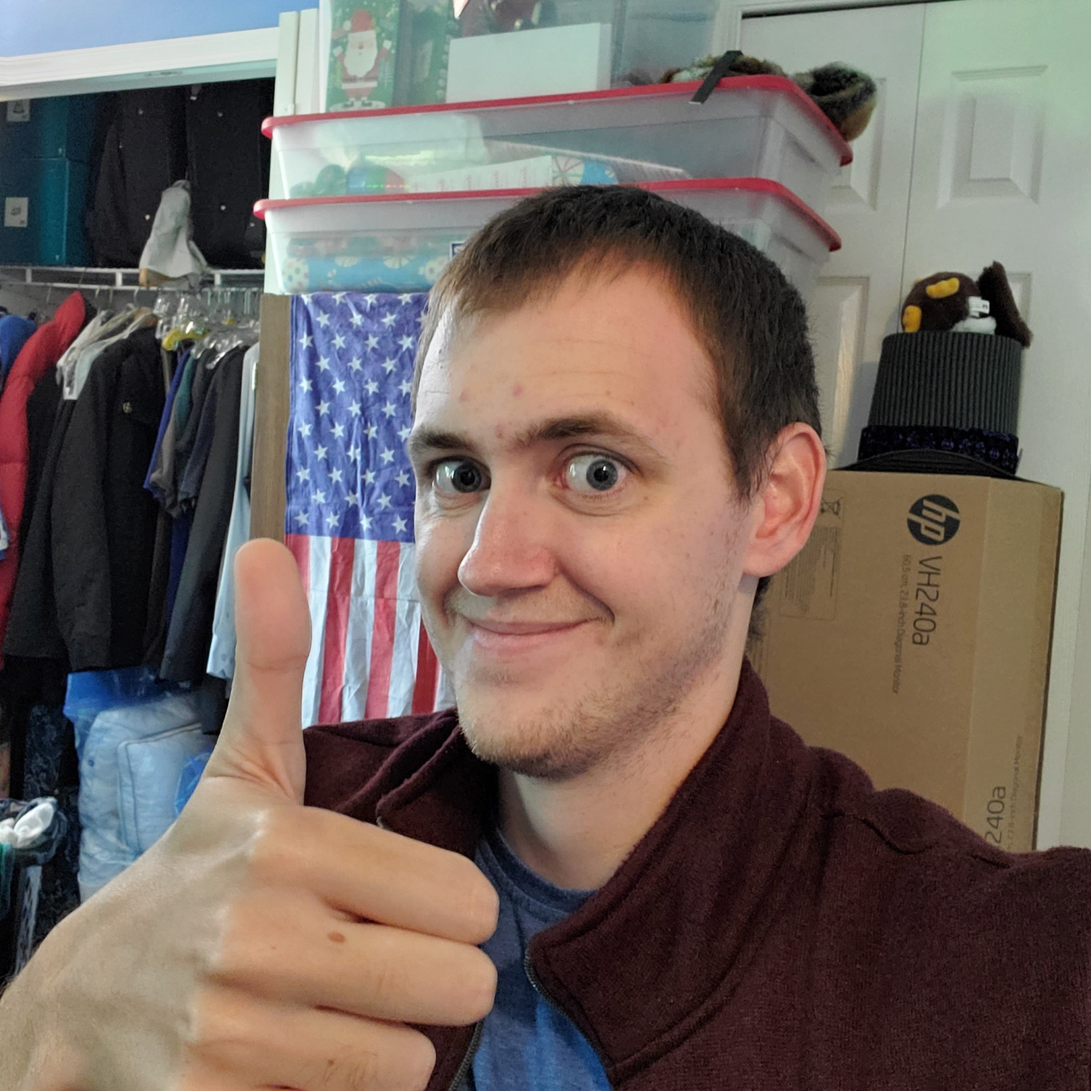
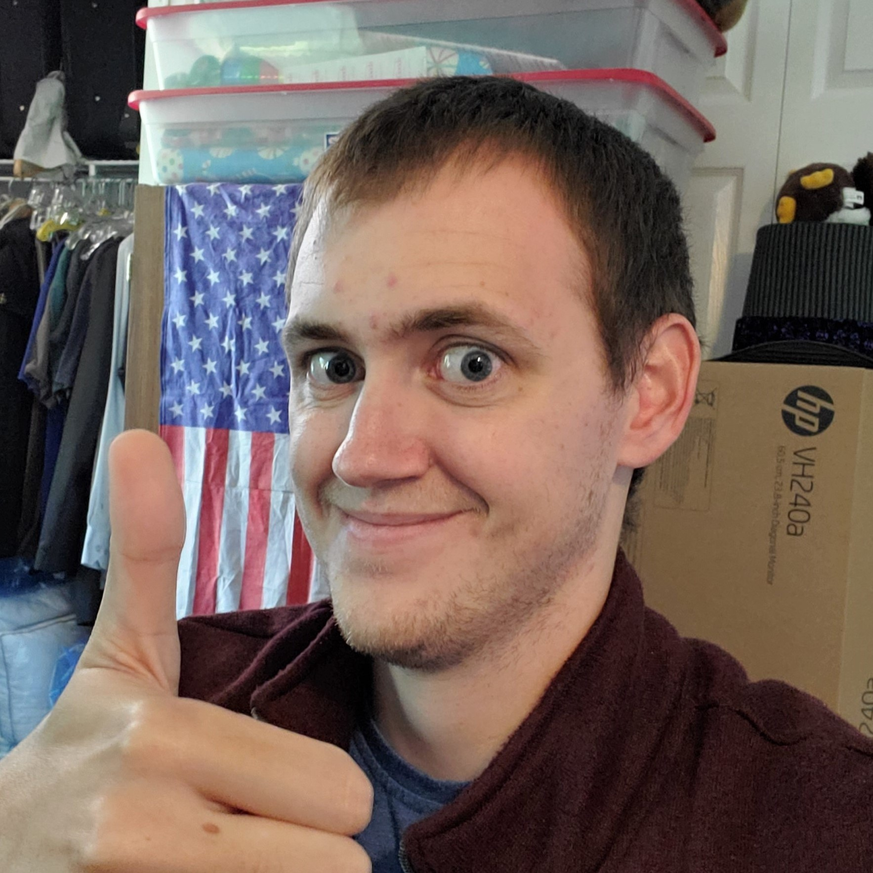
Reformatted scaling in the header, hero, and contact sections. Cropped profile image smaller.

diff --git a/index.html b/index.html
@@ -16,7 +16,7 @@
                 <a href="#AboutMe">About Me</a>
                 <a href="#Work">Work</a>
                 <a href='#Contact'>Contact Me</a>
-                <a>Resume</a>
+                <a href="https://drive.google.com/drive/folders/1G7vDNS1_WDe7sHni4MkNXeV1O_1Gjek0?usp=sharing" target="_blank">Resume</a>
             </nav>
         </header>
         <section class="hero">
@@ -28,28 +28,28 @@
         <main>
             <article id="AboutMe">
                 <h2>About Me</h2>
-                <p>Hello! My name is William Ruback. <br><br> I am currently learning full stack web development thanks to the UCF Coding Bootcamp program. I am becoming proficient in the use of HTML, CSS, and Javascript for the use of front-end web development, and will soon be learning server backend as well. <br><br> In addition, I am also proficient in designing motion graphics and visuals effects with after effects, 3D work with blender, and photo editing with Adobe Photoshop. I also have video editing experience using Adobe Premerie Pro, and additional experience working on professional sets as a grip. <br><br> below are some examples of my web development work. More will be coming soon!</p>
+                <p>Hello! My name is William Ruback. <br><br> I am currently learning full stack web development thanks to the UCF Coding Bootcamp program. I am becoming proficient in the use of HTML, CSS, and Javascript for the use of front-end web development, and will soon be learning server backend as well. <br><br> In addition, I am also proficient in designing motion graphics and visuals effects with after effects, 3D work with blender, and photo editing with Adobe Photoshop. I also have video editing experience using Adobe Premerie Pro, and additional experience working on professional sets as a grip. <br><br> Below are some examples of my web development work. More will be coming soon!</p>
             </article>
             <article id="Work" class="flip-right">
                 <h2>Work</h2>
                 <section class="projectBoxes">
-                    <a href="https://github.com/WRuback/WR-practice-portfolio-website" target="_blank" class="big-work" id="refactor">
+                    <a href="https://github.com/WRuback/code-refactoring-project" target="_blank" class="big-work" id="refactor">
                         <div></div>
                         <p>Code Refactoring</p>
                     </a>
-                    <a href="https://github.com/WRuback/WR-practice-portfolio-website" target="_blank" class="coming-soon">
+                    <a class="coming-soon">
                         <div></div>
                         <p>Coming Soon</p>
                     </a>
-                    <a href="https://github.com/WRuback/WR-practice-portfolio-website" target="_blank" class="coming-soon">
+                    <a class="coming-soon">
                         <div></div>
                         <p>Coming Soon</p>
                     </a>
-                    <a href="https://github.com/WRuback/WR-practice-portfolio-website" target="_blank" class="coming-soon">
+                    <a class="coming-soon">
                         <div></div>
                         <p>Coming Soon</p>
                     </a>
-                    <a href="https://github.com/WRuback/WR-practice-portfolio-website" target="_blank" class="coming-soon">
+                    <a class="coming-soon">
                         <div></div>
                         <p>Coming Soon</p>
                     </a>
@@ -60,8 +60,8 @@
                 <section class = "contact">
                     <a>555-555-5555</a>
                     <a>myemail@email.com</a>
-                    <a>Github</a>
-                    <a>Linkedin</a>
+                    <a href="https://github.com/WRuback">Github</a>
+                    <a href="https://www.linkedin.com/in/william-ruback-9847911b0/">Linkedin</a>
                 </nav>
             </article>
         </main>

diff --git a/assets/css/style.css b/assets/css/style.css
@@ -176,12 +176,13 @@ article h2 + p {
 .contact {
     display: flex;
     flex-flow: row wrap;
+    justify-content: space-around;
 }
 .contact a{
     text-decoration: underline;
     color:rgb(245, 232, 119);
     font-size: 125%;
-    padding: 20px 5px;
+    padding: 20px 8px;
 
 }
 
@@ -194,41 +195,52 @@ footer {
     border-top: 5px solid rgb(245, 232, 119);
     align-items: center;
 }
+@media screen and (max-width: 992px) {
+    article{
+        flex-direction: column;
+        padding: 0px 30px;
+      }
+      article h2 {
+          border-right: none;
+          border-bottom: 5px solid rgb(245, 232, 119);
+      }
+      .flip-right {
+          flex-direction: column;
+      }
+      .flip-right h2 {
+          border-left: none;
+          border-right: none;
+      }
+}
 @media screen and (max-width: 768px) {
     header{
         flex-direction: column;
         padding: 0px;
     }
-    header h1{
-        border-radius: 0px;
-        padding: 20px 0px;
-        width: 100%;
+    header h1 {
+        margin-top: 20px;
+    }
+    header nav a{
+        font-size: 4vw;
     }
 
-    article{
-      flex-direction: column;
-      padding: 0px 30px;
-    }
-    article h2 {
-        border-right: none;
-        border-bottom: 5px solid rgb(245, 232, 119);
-    }
-    .flip-right {
+    .hero .profile-bounds{
+        display: flex;
         flex-direction: column;
+        align-items: center;
     }
-    .flip-right h2 {
-        border-left: none;
-        border-right: none;
+    .hero #profile{
+        position: static;
     }
+    .hero p{
+        position: static;
+    }
+
     
     .projectBoxes .big-work {
         width: 95%;
-        height: 200px;
+        height: 250px;
         flex: 1 1 95%;
     }
   }
-  @media screen and (max-width: 450px) {
-    header nav a{
-        font-size: 105%;
-    }
-  }
+
